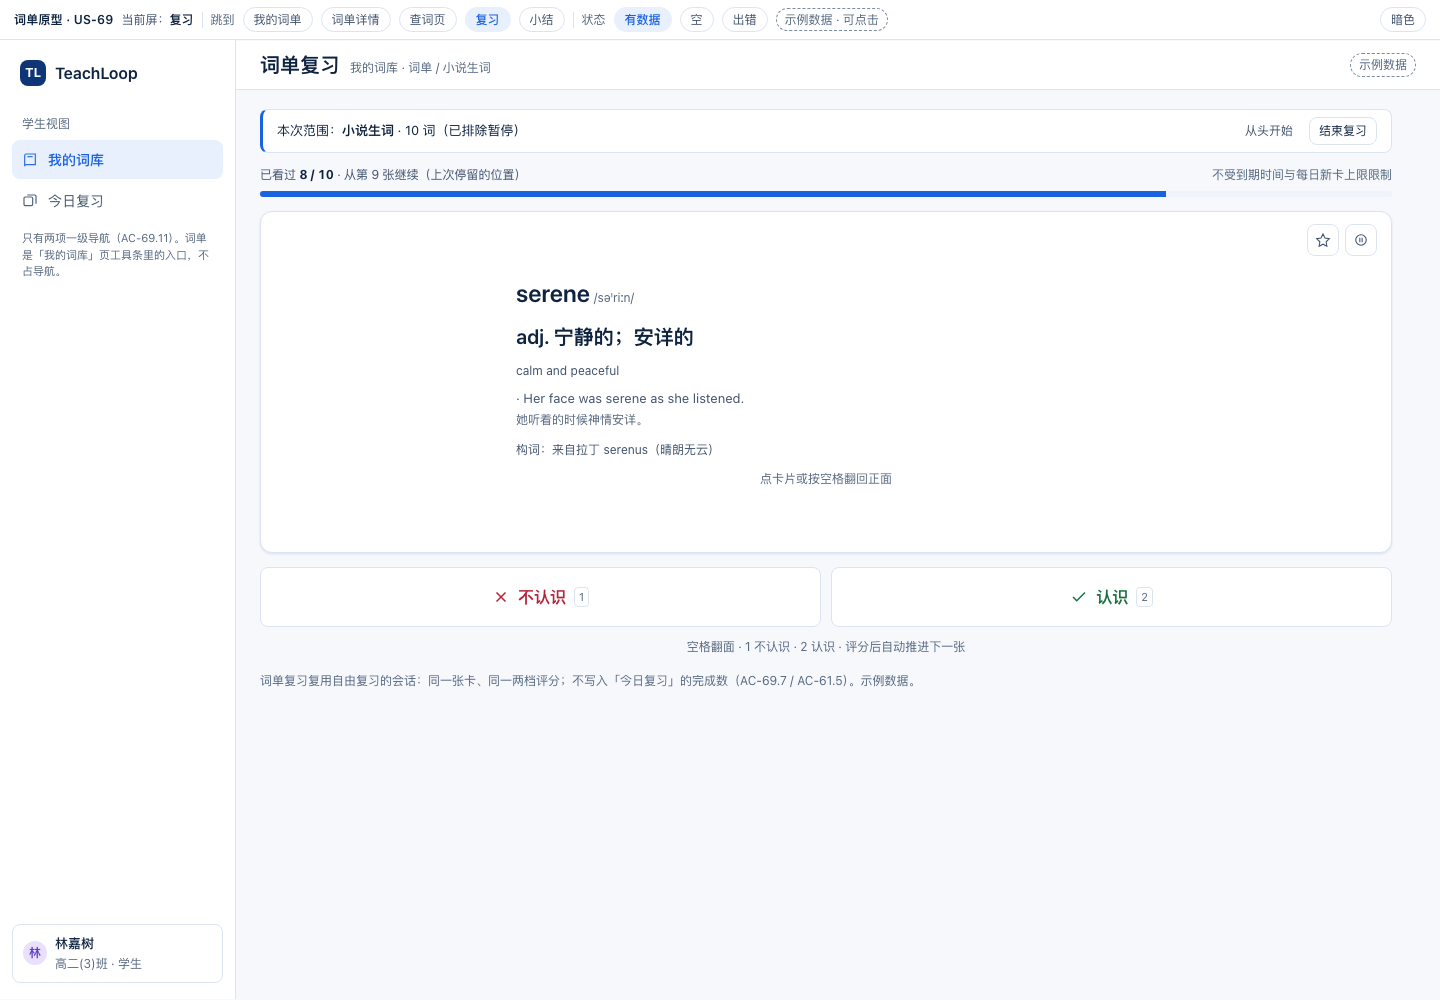
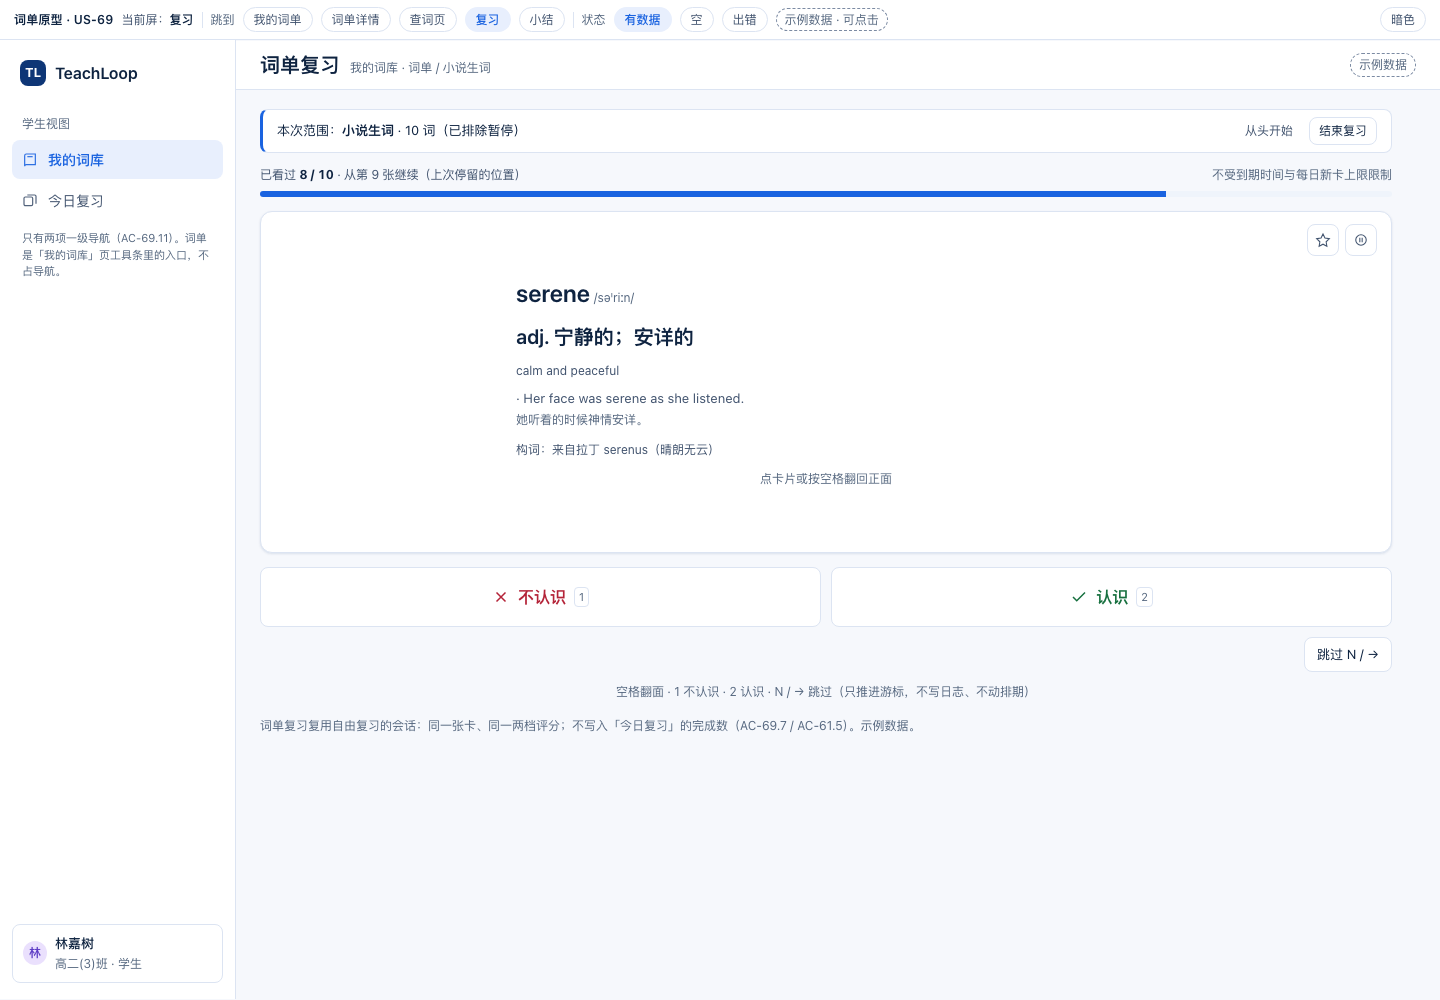
docs(spec,mock): 词单 10 条界面决策落 AC-69.x；原型补「跳过（N/→）」
拍板（用户 2026-10-25「全部按建议」）：
- AC-69.1 排序位只留数据层，V1 不做拖动排序
- AC-69.3 V1 不做回收站/恢复入口
- AC-69.5 加入词单一步入库（不再单给「先加入词库」）；弹层内重名复用已有并选中，创建接口仍 409
- AC-69.6 列表行也给「开始复习（N）」；改名+描述合并为「编辑词单信息」；移出不确认、不做批量；暂停词保留行+chip、不给恢复入口
- AC-69.7 保留「跳过（N/→）」：只推进游标、不写日志、不动排期，计入小结
- AC-69.11 工具条按钮纯文字「词单」，无角标
mock：review 屏补「跳过 N/→」与键盘 N/→，重截 review/review-flipped/summary；README 拍板段与 spec §25.2 结论表同步
tasks：T451/T452 验收补上述决策

diff --git a/docs/mock/vocab-lists-2026-10-25/index.html b/docs/mock/vocab-lists-2026-10-25/index.html
@@ -1100,11 +1100,28 @@ function screenReview(){
       <span class="n">认识</span> <span class="kbd">2</span>
     </button>
   </div>
-  <div class="hint">空格翻面 · 1 不认识 · 2 认识 · 评分后自动推进下一张</div>
+  <div class="row" style="justify-content:flex-end;margin-top:10px">
+    <button class="btn" onclick="skipWord()">跳过 <span class="kbd">N / →</span></button>
+  </div>
+  <div class="hint">空格翻面 · 1 不认识 · 2 认识 · N / → 跳过（只推进游标，不写日志、不动排期）</div>
   <div class="foot-note">词单复习复用自由复习的会话：同一张卡、同一两档评分；不写入「今日复习」的完成数（AC-69.7 / AC-61.5）。示例数据。</div>`;
 }
 function togglePauseInReview(form){
   togglePause(form);
+}
+function skipWord(){
+  if (S.rv.total===0) return;
+  S.rv.skip++;
+  S.rv.cursor++;
+  S.flip=false;
+  if (S.rv.cursor>=S.rv.total){
+    render();
+    toast('已跳过 · 这一轮看完了');
+    go('summary');
+    return;
+  }
+  render();
+  toast('已跳过这张（不写日志、不动排期）');
 }
 function rate(kind){
   if (S.rv.total===0) return;
@@ -1156,7 +1173,7 @@ function screenSummary(){
       词单复习不写入「今日复习」的完成数；「认识 / 不认识」按与今日复习相同的规则推进进度，一份排期、不属于任何词单。
     </div>
     <div class="sm muted-2" style="text-align:center;margin:6px auto 0;max-width:520px">
-      这一轮没有「跳过」：本原型底部的两个评分按钮就是全部动作；真实页面另有「下一个（N / →）」只推进游标、不写日志（AC-61.2）。
+      「跳过（N / →）」只推进游标：不写日志、不动排期，也不计入认识/不认识；它与自由复习的「下一个」是同一个动作（AC-61.2 / AC-69.7）。
     </div>
   </div>`;
 }
@@ -1218,6 +1235,7 @@ document.addEventListener('keydown', e=>{
     if (e.code==='Space'){ e.preventDefault(); S.flip=!S.flip; render(); }
     if (e.key==='1') rate('again');
     if (e.key==='2') rate('good');
+    if (e.key==='n' || e.key==='N' || e.key==='ArrowRight') skipWord();
   }
 });
 

diff --git a/specs/004-vocab/spec.md b/specs/004-vocab/spec.md
@@ -242,17 +242,17 @@
 >
 > 收藏只能充当**一份** list，不能改名、不能写描述、不能排序，也装不下「考研核心词 / 小说生词」这种并存的分组。词单只做引用：**词条一份、进度一份**，词单不复制任何排期。
 
-- [ ] AC-69.1 学生可创建 / 改名 / 删除自己的词单。一份词单有**名字（1–80 字，同一学生内不重名，大小写不敏感）**、可选**描述（≤200 字）**、排序位。词单是**只引用词条**的容器：词条仍按 `(学生, 语言, 词形)` 只有一份，学习进度仍只有一份（`vocab_progress` 主键 = 词）。同一个词出现在多份词单里，复习后**只有一份排期**，不存在「一份词单一套进度」。
+- [ ] AC-69.1 学生可创建 / 改名 / 删除自己的词单。一份词单有**名字（1–80 字，同一学生内不重名，大小写不敏感）**、可选**描述（≤200 字）**、排序位。词单是**只引用词条**的容器：词条仍按 `(学生, 语言, 词形)` 只有一份，学习进度仍只有一份（`vocab_progress` 主键 = 词）。同一个词出现在多份词单里，复习后**只有一份排期**，不存在「一份词单一套进度」。**排序位只保留在数据层，V1 不提供拖动排序**（顺序 = 加入顺序，2026-10-25 拍板）。
 - [ ] AC-69.2 一个词可同时属于多份词单；同一份词单内同一个词只挂一次（重复加入不报错、不重复计数：「加入词单」弹层里该词单行显示「已在词单」并置灰）。词单内顺序 = 加入顺序。
-- [ ] AC-69.3 删除词单**不删除任何词条与进度**，只删引用；删除为软删，删除后从列表消失；**确认条必须写明「不会删除词条与学习进度」**。恢复词条（AC-55）后，它仍在原来所属的词单里。
+- [ ] AC-69.3 删除词单**不删除任何词条与进度**，只删引用；删除为软删，删除后从列表消失；**确认条必须写明「不会删除词条与学习进度」**。恢复词条（AC-55）后，它仍在原来所属的词单里。**V1 不提供回收站与恢复入口**（2026-10-25 拍板）。
 - [ ] AC-69.4 单学生词单数量上限默认 **100**，由 `teachloop.vocab.lists.max-per-student` 配置；达到上限时创建按钮禁用并说明原因，已有词单不受影响。
-- [ ] AC-69.5 加入词单有三个入口：**查词页（`word-details`）**、**词库行内操作**、**导入时指定词单名**（承接原 AC-48.10 的「卡组名」，2026-10-25 起改指词单）。要加入的词若不在本人词库，先入库再引用；导入时词单名不存在则自动创建，已达上限则**导入继续**、该批不入词单并明确提示。
-- [ ] AC-69.6 词单详情页显示名称、描述、词数、逐词列表（顺序 = 加入顺序）；可**移出单个词**（只删引用，不动词条与进度）、可改名/改描述、可删除整份词单。被移出的词仍在词库。
-- [ ] AC-69.7 词单详情页有「开始复习」：范围 = **这份词单里未被暂停的全部词**（与 AC-61.1 同一排除口径），不受到期时间与每日新卡上限限制；复用自由复习会话（同一张卡、同一两档评分），结束后回到词单详情并显示小结（承接 AC-61.3）。
+- [ ] AC-69.5 加入词单有三个入口：**查词页（`word-details`）**、**词库行内操作**、**导入时指定词单名**（承接原 AC-48.10 的「卡组名」，2026-10-25 起改指词单）。要加入的词若不在本人词库，**一步合并**：先入库再引用，弹层里写明「会先加入你的词库」，不再单独给「先加入词库」一步；导入时词单名不存在则自动创建，已达上限则**导入继续**、该批不入词单并明确提示。**弹层里新建的名字与已有词单重名时复用已有并选中**（不报错；直接调创建接口仍按 AC-69.1 返回 409），2026-10-25 拍板。
+- [ ] AC-69.6 词单详情页显示名称、描述、词数、逐词列表（顺序 = 加入顺序）；可**移出单个词**（只删引用，不动词条与进度）、可**在同一个「编辑词单信息」弹层里改名与改描述**、可删除整份词单。被移出的词仍在词库。**移出单个词不二次确认，V1 不做批量移出**；**暂停词保留在表内并加「已暂停」chip，不置灰、词单里不提供恢复入口**（恢复仍在词库页 / 今日复习，AC-59.3）；**列表页每行也直接提供「开始复习（N）」**，N 为排除暂停后的词数（2026-10-25 拍板）。
+- [ ] AC-69.7 词单详情页有「开始复习」：范围 = **这份词单里未被暂停的全部词**（与 AC-61.1 同一排除口径），不受到期时间与每日新卡上限限制；复用自由复习会话（同一张卡、同一两档评分），结束后回到词单详情并显示小结（承接 AC-61.3）。**保留「跳过（`N` / `→`）」**：只推进游标、不写日志、不动排期、不计入认识/不认识（与 AC-61.2 同一动作），并计入小结的「跳过」；窄条显示「本次范围：<词单名> · N 词（已排除暂停）」，按钮数量 = 排除暂停后的数。
 - [ ] AC-69.8 词库页可按词单筛选（多选，与来源 / 标签 / 状态 / 收藏取交集），筛选条件进 URL 可还原（承接 AC-59.x 的 URL 口径）。
 - [ ] AC-69.9 词单只属于创建者：访问他人词单一律 **404**（不泄露存在性）；教师与管理员都不能查看学生词单；接口不返回他人词单的数量或名称。
 - [ ] AC-69.10 空词单有明确空态与「去加词」入口（**0 词时列表行的「开始复习」禁用**；详情页显示空态并给「＋ 加词」）；列表与详情都有空 / 加载 / 出错 / 有数据四态，出错可重试；文案入 `vocab.lists.*` 中英同步（承接 FR-103）。
-- [ ] AC-69.11 入口不新增一级导航：学生一级导航仍是「我的词库 / 今日复习」两项（FR-104）；词单列表从词库页工具条进入（`/vocab/lists`），词单详情为 `/vocab/lists/:id`。
+- [ ] AC-69.11 入口不新增一级导航：学生一级导航仍是「我的词库 / 今日复习」两项（FR-104）；词单列表从词库页工具条进入（`/vocab/lists`），词单详情为 `/vocab/lists/:id`；工具条按钮是**纯文字「词单」，不带数量角标**（角标在侧栏是「未读」语义，2026-10-25 拍板）。
 
 ## 4. 功能需求
 
@@ -681,7 +681,7 @@
 ## 25. Mock 回写（2026-10-25 学生词单）
 
 > 原型：`docs/mock/vocab-lists-2026-10-25/index.html`（五屏 + 三态，9 张截图在 `shots/`，说明见同目录 `README.md`）。
-> 规矩：**只有已拍板的改动回写 AC**；没拍板的只列在 §25.2，不写成验收标准。
+> 规矩：**只有已拍板的改动回写 AC**。§25.1 的 3 条是画图时补出来的细节，§25.2 的 10 条是画图时发现 spec 没写清、2026-10-25 当日已拍板的点；两者都已落进 AC-69.x。
 
 ### 25.1 已回写（画图时补出来的细节）
 
@@ -691,18 +691,19 @@
 | AC-69.3 | 删除确认条必须包含「不会删除词条与学习进度」这句话 | 用户最怕「删 list 会不会把词一起删掉」，文案是这条 AC 的唯一可见证据 |
 | AC-69.10 | 0 词词单：列表行「开始复习」禁用，详情页显示空态并给「＋ 加词」 | 四态里「空」这一态原来只有抽象要求，画完才确定落点 |
 
-### 25.2 待拍板（画 Mock 时发现 spec 没写清，2026-10-25 未决）
+### 25.2 已拍板（2026-10-25，用户「全部按建议」）
 
-| # | 问题 | 原型里的现状 |
-| :--- | :--- | :--- |
-| 1 | 词单列表每行是否直接给「开始复习」 | 给了（AC-69.7 只写了详情页有） |
-| 2 | 暂停词在词单里怎么呈现：保留行 + chip / 置灰 / 排到末尾 / 一键恢复 | 保留行 + 「已暂停」chip，不置灰、不给一键恢复 |
-| 3 | 「重命名」是否同屏改描述，还是拆成「编辑信息」 | 一个弹层同时改名字与描述 |
-| 4 | 加入词单弹层里新建的名字与已有词单重名时：复用已有还是报错 | 复用已有并选中（接口层仍按 AC-69.1 拒绝重名创建） |
-| 5 | 移出单个词是否要二次确认；要不要批量移出 | 不确认、不做批量 |
-| 6 | 词单复习是否保留「跳过（`N` / `→`）」 | 未画按钮，但小结里留了「跳过 0」统计 |
-| 7 | 词单内是否支持拖动排序（AC-69.1 有排序位，UI 未定义） | 不做，仅按加入顺序 |
-| 8 | 软删词单是否需要回收站 / 恢复入口 | 不做 |
-| 9 | 词不在词库时（AC-69.5 先入库再引用），查词页弹层是否单独给「先加入我的词库」一步 | 不单独给，加入词单时一并入库 |
-| 10 | 词库工具条的「词单」按钮是否带数量角标 | 不带，纯文字按钮 |
+画 Mock 时发现 spec 没写清的 10 个点，逐条拍板并落进 AC：
 
+| # | 问题 | 结论 | 落到哪条 AC |
+| :--- | :--- | :--- | :--- |
+| 1 | 词单列表每行是否直接给「开始复习」 | **给**，N = 排除暂停后的词数（少一次点击，AC-69.7 只约束详情页、不禁止列表） | AC-69.6 |
+| 2 | 暂停词在词单里怎么呈现 | **保留行 + 「已暂停」chip**，不置灰、词单内不给恢复入口（恢复仍在词库 / 今日复习，避免第二个真相） | AC-69.6 |
+| 3 | 「重命名」是否同屏改描述 | **合并成「编辑词单信息」一个弹层**（拆开后没人找得到描述在哪改） | AC-69.6 |
+| 4 | 弹层里新建词单重名 | **复用已有并选中**；直接调创建接口仍按 AC-69.1 返 409（两个入口语义不同） | AC-69.5 |
+| 5 | 移出单个词是否二次确认、是否批量 | **不确认、V1 不做批量**（可逆：再加回来一步） | AC-69.6 |
+| 6 | 词单复习是否保留「跳过（`N` / `→`）」 | **保留**：只推进游标、不写日志、不动排期，与 AC-61.2 同一动作（两处行为不一致会被当 bug） | AC-69.7 |
+| 7 | 词单内拖动排序 | **V1 不做**：排序位留在数据层，UI 后置（十几到一百词场景收益低） | AC-69.1 |
+| 8 | 软删是否要回收站 / 恢复入口 | **不做**：软删已保数据，恢复会引出「恢复后成员还在不在」的新规则 | AC-69.3 |
+| 9 | 词不在词库时是否单独给「先加入词库」一步 | **一步合并**：加入词单时自动入库，弹层写明「会先加入你的词库」 | AC-69.5 |
+| 10 | 工具条「词单」按钮是否带数量角标 | **不带**：角标在侧栏是「未读」语义，词单数量不是待办 | AC-69.11 |

diff --git a/specs/004-vocab/tasks.md b/specs/004-vocab/tasks.md
@@ -98,8 +98,8 @@
 | T448 | **迁移 V064**：`vocab_lists`（名字/描述/position/软删，`unique(user_id, lower(name)) where not deleted`）+ `vocab_list_items`（`unique(list_id, word_id)`、`index(list_id, position)`、`index(word_id)`）；登记 `TABLE_OWNER`；`word_id` **不建外键**（词软删后引用保留，与 `vocab_review_logs` 同口径） | T387 | 空库与含存量数据的库各跑一次；唯一约束与索引都在；`make check-boundaries` 通过；无跨模块外键 |
 | T449 | **词单后端基础**：`com.teachloop.vocab.lists`（Endpoint + Repository）——建/列/改名/软删、加词（`forms` 先入库再引用）/移出、重名与上限（`lists.max-per-student` 默认 100）、越权一律 404 | T448 | `VocabWordListTest`：重名 409、超上限 409、他人词单 404、重复加入幂等返回 `duplicated`、**删单后 `vocab_words` / `vocab_progress` 行数与内容不变**、软删词后引用保留 |
 | T450 | **查询与复习接入**：`GET /api/vocab/words` 增加可重复 `list` 参数（与来源/标签/状态/收藏取交集，URL 可还原）；词单内未暂停词喂既有 `POST /api/vocab/review-sessions` | T449, T396, T404 | 词库按 list 筛出的集合正确、`?list=` 可还原；**一个词进 3 份词单、复习一轮后 `vocab_progress` 仍 1 行且 `due_at` 只更新一次**；超过 1000 词按自由复习做法分批 |
-| T451 | **词单前端**：`/vocab/lists` 列表页 + `/vocab/lists/:id` 详情页；查词页（`word-details`）与词库行内「加入词单」；词库筛选弹窗增加词单维度；入口从词库工具条进，**不新增一级导航** | T449 | 空/加载/出错/有数据四态齐；空词单有「去加词」；移出只删引用；`vocab.lists.*` 中英 key 对齐（`check-i18n`）；学生一级导航仍是两项 |
-| T452 | **从词单开复习**：详情页「开始复习」→ 会话（同一张卡、两档评分）→ 结束回词单详情并显示小结；范围排除暂停词并显示「N 个已暂停不在复习范围」 | T451, T404 | 全暂停/空单时按钮禁用并提示；复习后进度只一份；结束后回到详情页 |
+| T451 | **词单前端**：`/vocab/lists` 列表页 + `/vocab/lists/:id` 详情页；查词页（`word-details`）与词库行内「加入词单」；词库筛选弹窗增加词单维度；入口从词库工具条进（纯文字「词单」、无角标），**不新增一级导航**。列表页每行直接给「开始复习（N）」；改名与描述合并为「编辑词单信息」一个弹层；移出不二次确认、不做批量；暂停词保留行内加 chip、不给恢复入口 | T449 | 空/加载/出错/有数据四态齐；空词单有「去加词」且该行「开始复习」禁用；移出只删引用；`vocab.lists.*` 中英 key 对齐（`check-i18n`）；学生一级导航仍是两项 |
+| T452 | **从词单开复习**：详情页「开始复习」→ 会话（同一张卡、两档评分）→ 结束回词单详情并显示小结；范围排除暂停词并显示「N 个已暂停不在复习范围」；保留「跳过（`N` / `→`）」只推进游标、不写日志、不动排期并计入小结 | T451, T404 | 全暂停/空单时按钮禁用并提示；复习后进度只一份；跳过不计入认识/不认识；结束后回到详情页 |
 | T453 | **导入指定词单名 + 收尾**：导入可选词单名（替代 AC-48.10 的卡组名，不存在则创建，达上限则导入继续并提示该批未入单）；勾选 AC-69.x、更新 `PROGRESS` / 计数自检 | T451, T390 | 导入带词单名自动建单；达上限时导入不被阻断且提示可见；四份文档计数自检通过、无新增重复编号 |
 
 ---

diff --git a/docs/mock/vocab-lists-2026-10-25/README.md b/docs/mock/vocab-lists-2026-10-25/README.md
@@ -21,7 +21,7 @@
 | 词单详情 | `#listDetail` | 名称/描述/「12 词」「2 个已暂停不在复习范围」「顺序 = 加入顺序」、主按钮「开始复习（10）」、右上「＋ 加词」、逐词表（含暂停 chip）、移出、删除整份 | `shots/list-detail.png` |
 | 词单详情 · 空 | `#listDetail?ds=empty` | 0 词时主按钮禁用、给「＋ 加词」 | `shots/list-detail-empty.png` |
 | 查词页 · 加入词单 | `#wordDetail?add=1` | 头部 `＋` 图标展开页内弹层：现有词单多选（已在词单的置灰打勾）、底部新建词单输入、「加入」 | `shots/word-detail-add.png` |
-| 从词单复习 | `#review` | 窄条「本次范围：小说生词 · 10 词（已排除暂停）」、续上次进度提示、**`review-front` 居中版式**、两档评分与 1/2 快捷键 | `shots/review.png` |
+| 从词单复习 | `#review` | 窄条「本次范围：小说生词 · 10 词（已排除暂停）」、续上次进度提示、**`review-front` 居中版式**、两档评分（1/2）与「跳过（`N` / `→`）」 | `shots/review.png` |
 | 从词单复习 · 翻面 | `#review?flip=1` | 翻面后是 `review-back`（释义/例句/构词），与产品当前版式一致 | `shots/review-flipped.png` |
 | 结束小结 | `#summary` | 看过 8 / 认识 6 / 不认识 2 / 跳过 0；「返回词单」「再看一遍」 | `shots/summary.png` |
 
@@ -39,9 +39,12 @@
 | 画了「我的词库工具条 → 词单」的入口关系，侧栏仍只有两项 | AC-69.11 / FR-104 |
 | 「删除词单」的确认条写明「**不会删除词条与学习进度**」 | AC-69.3 |
 
-## 待拍板的 10 条（画的时候发现 spec 没写清，未自行定规则）
+## 10 条拍板（2026-10-25 已定）
 
-见 [`spec.md` §25](../../../specs/004-vocab/spec.md) 的「Mock 回写（2026-10-25 学生词单）」——那里是同一份清单，拍板后直接回写 AC。
+画的时候发现 spec 没写清的 10 个点，已按用户「全部按建议」拍板并回写 AC，**结论表在 [`spec.md` §25.2](../../../specs/004-vocab/spec.md)**。原型与结论一致，其中一条要在原型里特别注意：
+
+- **「跳过」按钮**：原型放在评分行右下（`跳过 N / →`，键盘 `N` / `→` 等价）。真实页面的「下一个」是**卡片外右侧**（AC-61.2 / T437 已实现），位置以产品为准，原型不再复刻那版式。
+- 另外 9 条（列表行给「开始复习」、暂停词保留行 + chip、改名与描述合并、弹层重名复用、移出不确认且不批量、不做拖动排序、不做回收站、加入词单时一步入库、工具条按钮无角标）在原型里已是这个形态。
 
 ## 截图
 
